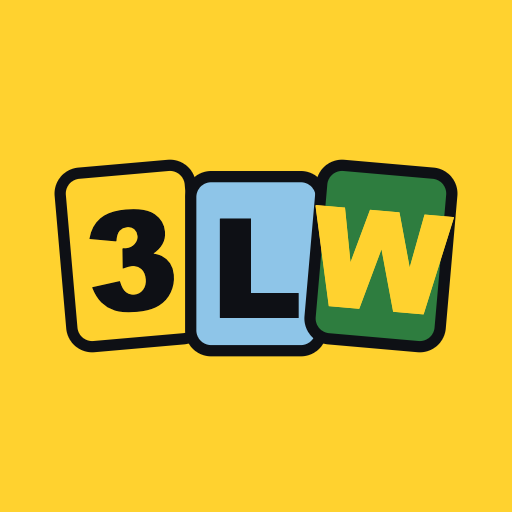
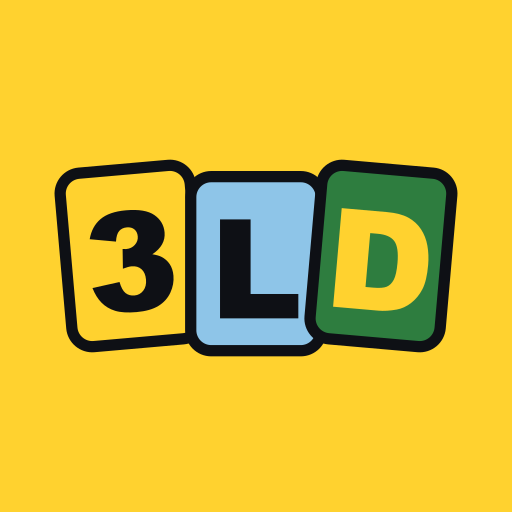
Rename: 3letterwordle.com → 3letterdaily.com (3 Letter Daily)
Brand:
- Wordmark third tile flips W → D across Intro, Chrome, and the legal
  page brand lockups. Yellow/blue/green tile order unchanged.
- Visible "3LW" copy → "3LD" (ShareButton card + clipboard string).
- Page titles, meta description, OG title/url, applicationName all
  switch to "3 Letter Daily".

Brand assets:
- brand/icon.svg + brand/og-image.svg are the SVG sources, kept out of
  app/ so they don't get served as routes.
- New scripts/build-brand.ts uses sharp (already in node_modules) to
  rasterize app/icon.png (512), apple-icon.png (180), and
  opengraph-image.png (1200×630). Run via `npm run build-brand`.
- Fonts inside the SVGs use widely-available system stacks (Arial
  Black, Helvetica, Georgia italic) so the rasterized output is
  consistent without shipping a font binary.

URLs:
- metadataBase, openGraph.url, sitemap BASE all point at
  https://www.3letterdaily.com.
- Share text URL is https://3letterdaily.com (apex, matches the prior
  pattern for clipboard strings).
- New app/robots.ts emits /robots.txt with sitemap + apex host.

Plumbing:
- package.json name → 3letterdaily, lockfile resynced.
- README title + Vercel domain note updated.
- CSS section comment headers (3LW design tokens / 3LW kit styles) → 3LD.
- opengraph-image.alt.txt copy updated to the new product name.

External services that still need URL updates listed in the chat reply.

diff --git a/scripts/build-brand.ts b/scripts/build-brand.ts
@@ -1,0 +1,48 @@
+/**
+ * Rasterizes brand SVGs into the PNG variants Next.js expects under app/.
+ *
+ * Run with: npm run build-brand
+ *
+ * Sources live in brand/ so they don't get served as static routes.
+ * Outputs:
+ *   brand/icon.svg          → app/icon.png            (512×512)
+ *   brand/icon.svg          → app/apple-icon.png      (180×180)
+ *   brand/og-image.svg      → app/opengraph-image.png (1200×630)
+ *
+ * sharp ships with the Next install, so no extra dependency is needed.
+ * Font rendering inside the SVGs uses widely-available system stacks
+ * (Arial Black / Helvetica) so the rasterized output is consistent
+ * across machines.
+ */
+
+import { readFileSync, writeFileSync } from 'node:fs';
+import { join, dirname } from 'node:path';
+import { fileURLToPath } from 'node:url';
+import sharp from 'sharp';
+
+const here = dirname(fileURLToPath(import.meta.url));
+const repo = join(here, '..');
+
+async function rasterize(svgPath: string, outPath: string, width: number, height: number) {
+  const svg = readFileSync(svgPath);
+  const png = await sharp(svg, { density: 384 })
+    .resize(width, height, { fit: 'contain', background: { r: 0, g: 0, b: 0, alpha: 0 } })
+    .png()
+    .toBuffer();
+  writeFileSync(outPath, png);
+  console.log(`  ${outPath} (${width}×${height})`);
+}
+
+async function main() {
+  const iconSvg = join(repo, 'brand', 'icon.svg');
+  const ogSvg = join(repo, 'brand', 'og-image.svg');
+  console.log('Rasterizing brand assets:');
+  await rasterize(iconSvg, join(repo, 'app', 'icon.png'), 512, 512);
+  await rasterize(iconSvg, join(repo, 'app', 'apple-icon.png'), 180, 180);
+  await rasterize(ogSvg, join(repo, 'app', 'opengraph-image.png'), 1200, 630);
+}
+
+main().catch((err) => {
+  console.error(err);
+  process.exit(1);
+});

diff --git a/app/privacy/page.tsx b/app/privacy/page.tsx
@@ -3,8 +3,8 @@ import Link from 'next/link';
 import Footer from '@/components/Footer';
 
 export const metadata: Metadata = {
-  title: 'Privacy Policy — 3 Letter Wordle',
-  description: 'What data 3 Letter Wordle collects, why, and your rights over it.',
+  title: 'Privacy Policy — 3 Letter Daily',
+  description: 'What data 3 Letter Daily collects, why, and your rights over it.',
 };
 
 const LAST_UPDATED = 'April 26, 2026';
@@ -17,7 +17,7 @@ export default function PrivacyPage() {
           <Link href="/" className="kit-logo" aria-label="Back to home">
             <span className="lt y">3</span>
             <span className="lt s">L</span>
-            <span className="lt g">W</span>
+            <span className="lt g">D</span>
           </Link>
           <Link href="/" className="kit-btn small">← BACK</Link>
         </header>
@@ -26,7 +26,7 @@ export default function PrivacyPage() {
         <div className="updated">Last updated: {LAST_UPDATED}</div>
 
         <p>
-          3 Letter Wordle is a small daily word-puzzle game. This page explains what data
+          3 Letter Daily is a small daily word-puzzle game. This page explains what data
           we collect, why, where it lives, and what you can do about it. Plain English,
           no legalese.
         </p>

diff --git a/app/terms/page.tsx b/app/terms/page.tsx
@@ -3,8 +3,8 @@ import Link from 'next/link';
 import Footer from '@/components/Footer';
 
 export const metadata: Metadata = {
-  title: 'Terms of Service — 3 Letter Wordle',
-  description: 'The rules for using 3 Letter Wordle. Plain English, no legalese.',
+  title: 'Terms of Service — 3 Letter Daily',
+  description: 'The rules for using 3 Letter Daily. Plain English, no legalese.',
 };
 
 const LAST_UPDATED = 'April 26, 2026';
@@ -17,7 +17,7 @@ export default function TermsPage() {
           <Link href="/" className="kit-logo" aria-label="Back to home">
             <span className="lt y">3</span>
             <span className="lt s">L</span>
-            <span className="lt g">W</span>
+            <span className="lt g">D</span>
           </Link>
           <Link href="/" className="kit-btn small">← BACK</Link>
         </header>
@@ -26,7 +26,7 @@ export default function TermsPage() {
         <div className="updated">Last updated: {LAST_UPDATED}</div>
 
         <p>
-          3 Letter Wordle is a free daily word-puzzle game. By using it, you agree to these
+          3 Letter Daily is a free daily word-puzzle game. By using it, you agree to these
           terms. Plain English, short and direct.
         </p>
 

diff --git a/components/ShareButton.tsx b/components/ShareButton.tsx
@@ -18,7 +18,7 @@ export type ShareButtonProps = {
 export function buildShareText(date: string, results: LetterState[][], solved: boolean): string {
   const score = solved ? `${results.length}/6` : 'X/6';
   const grid = results.map((row) => row.map((s) => EMOJI[s]).join('')).join('\n');
-  return `3LW ${date} ${score}\n\n${grid}\n\nhttps://3letterwordle.com`;
+  return `3LD ${date} ${score}\n\n${grid}\n\nhttps://3letterdaily.com`;
 }
 
 export default function ShareButton({ date, results, solved }: ShareButtonProps) {
@@ -40,7 +40,7 @@ export default function ShareButton({ date, results, solved }: ShareButtonProps)
     <div style={{ display: 'flex', flexDirection: 'column', gap: 10, alignItems: 'stretch', width: '100%', maxWidth: 320 }}>
       <div className="share-card">
         <div className="head">
-          <span>3LW</span>
+          <span>3LD</span>
           <span>#{date.slice(-2)} {score}</span>
         </div>
         <div className="grid">

diff --git a/app/layout.tsx b/app/layout.tsx
@@ -115,11 +115,11 @@ const baileWestShadow = localFont({
   display: 'swap',
 });
 
-const SITE_NAME = '3 Letter Wordle';
+const SITE_NAME = '3 Letter Daily';
 const SITE_DESCRIPTION = 'Small words, big stakes. A daily 3-letter word puzzle — three letters, six tries, one word a day.';
 
 export const metadata: Metadata = {
-  metadataBase: new URL('https://www.3letterwordle.com'),
+  metadataBase: new URL('https://www.3letterdaily.com'),
   title: SITE_NAME,
   description: SITE_DESCRIPTION,
   applicationName: SITE_NAME,
@@ -127,7 +127,7 @@ export const metadata: Metadata = {
     title: SITE_NAME,
     description: SITE_DESCRIPTION,
     type: 'website',
-    url: 'https://www.3letterwordle.com',
+    url: 'https://www.3letterdaily.com',
     siteName: SITE_NAME,
   },
   twitter: {

diff --git a/app/globals.css b/app/globals.css
@@ -130,7 +130,7 @@
 }
 
 /* =====================================================================
-   3LW design system tokens
+   3LD design system tokens
    ---------------------------------------------------------------------
    Bold, retro-poster identity built on the FT Baile family. Tokens are
    loaded as a foundation in commit (a); component CSS that consumes
@@ -254,7 +254,7 @@
 }
 
 /* =====================================================================
-   3LW kit styles — ported from prototype kit.css
+   3LD kit styles — ported from prototype kit.css
    ---------------------------------------------------------------------
    Ported as global rules. Kept under body.kit so the existing
    shadcn/Tailwind-driven UI remains untouched on routes that don't opt

diff --git a/components/Intro.tsx b/components/Intro.tsx
@@ -118,7 +118,7 @@ export default function Intro() {
           <div className="kit-logo">
             <div className="lt y">3</div>
             <div className="lt s">L</div>
-            <div className="lt g">W</div>
+            <div className="lt g">D</div>
           </div>
           <div className="kit-header-right">
             <button type="button" className="kit-btn small" onClick={() => setHowOpen(true)}>
@@ -154,7 +154,7 @@ export default function Intro() {
           <div className="intro-mark">
             <div className="lt y">3</div>
             <div className="lt s">L</div>
-            <div className="lt g">W</div>
+            <div className="lt g">D</div>
           </div>
           <p className="intro-sub">
             Small words,

diff --git a/components/Chrome.tsx b/components/Chrome.tsx
@@ -19,7 +19,7 @@ export function Header({ onHow, onStats, user }: HeaderProps) {
       <div className="kit-logo">
         <div className="lt y">3</div>
         <div className="lt s">L</div>
-        <div className="lt g">W</div>
+        <div className="lt g">D</div>
         <div className="name">daily</div>
       </div>
       <div className="kit-header-right">

diff --git a/app/robots.ts b/app/robots.ts
@@ -1,0 +1,15 @@
+import type { MetadataRoute } from 'next';
+
+const BASE = 'https://www.3letterdaily.com';
+
+export default function robots(): MetadataRoute.Robots {
+  return {
+    rules: {
+      userAgent: '*',
+      allow: '/',
+      disallow: ['/api/', '/auth/'],
+    },
+    sitemap: `${BASE}/sitemap.xml`,
+    host: BASE,
+  };
+}

diff --git a/app/sitemap.ts b/app/sitemap.ts
@@ -1,6 +1,6 @@
 import type { MetadataRoute } from 'next';
 
-const BASE = 'https://www.3letterwordle.com';
+const BASE = 'https://www.3letterdaily.com';
 
 export default function sitemap(): MetadataRoute.Sitemap {
   const now = new Date();

diff --git a/README.md b/README.md
@@ -1,4 +1,4 @@
-# 3 Letter Wordle
+# 3 Letter Daily
 
 A daily 3-letter word puzzle. Next.js 15 (App Router) + TypeScript + Tailwind + shadcn/ui + Supabase, deployed to Vercel.
 
@@ -70,6 +70,6 @@ supabase/schema.sql
 ## Deploy to Vercel
 
 1. Push this repo to GitHub.
-2. Import into Vercel, attach to the `3letterwordle.com` domain.
+2. Import into Vercel, attach to the `3letterdaily.com` domain.
 3. In Vercel → Project → Settings → Environment Variables, add all three env vars listed above.
 4. Run `supabase/schema.sql` against your Supabase project.
